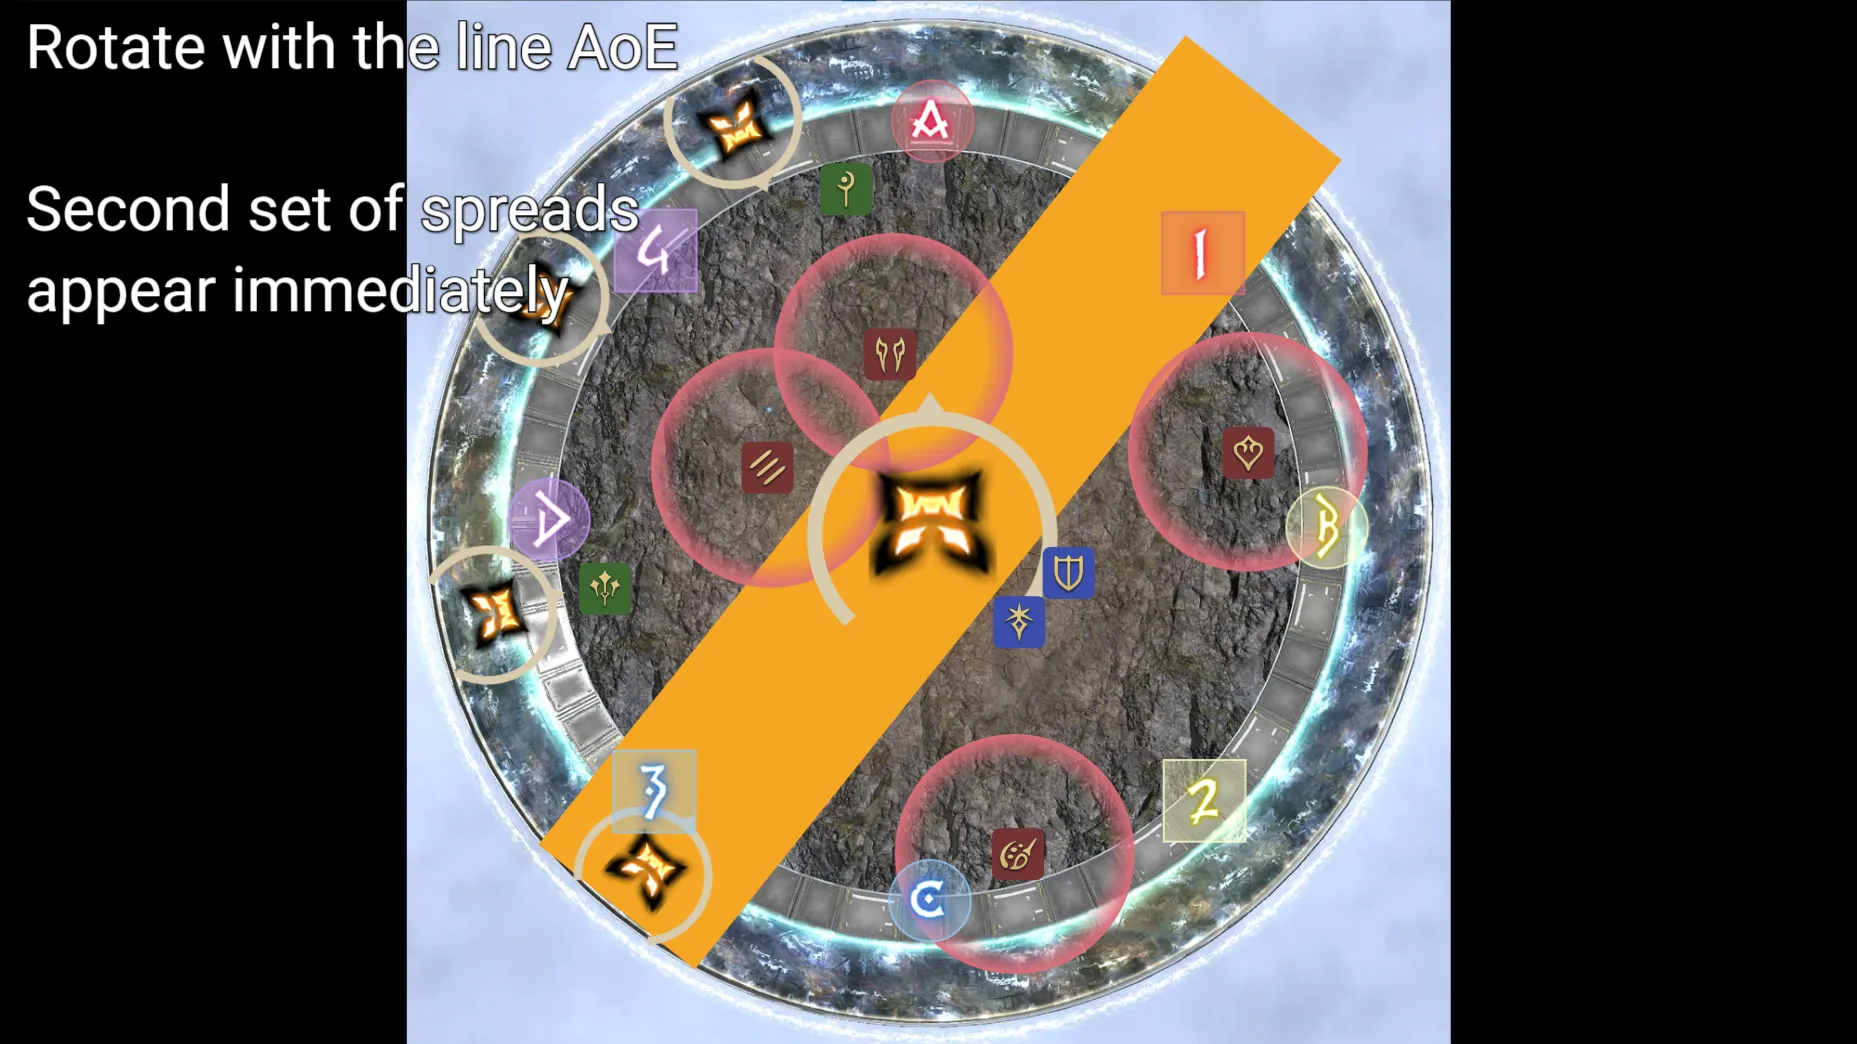
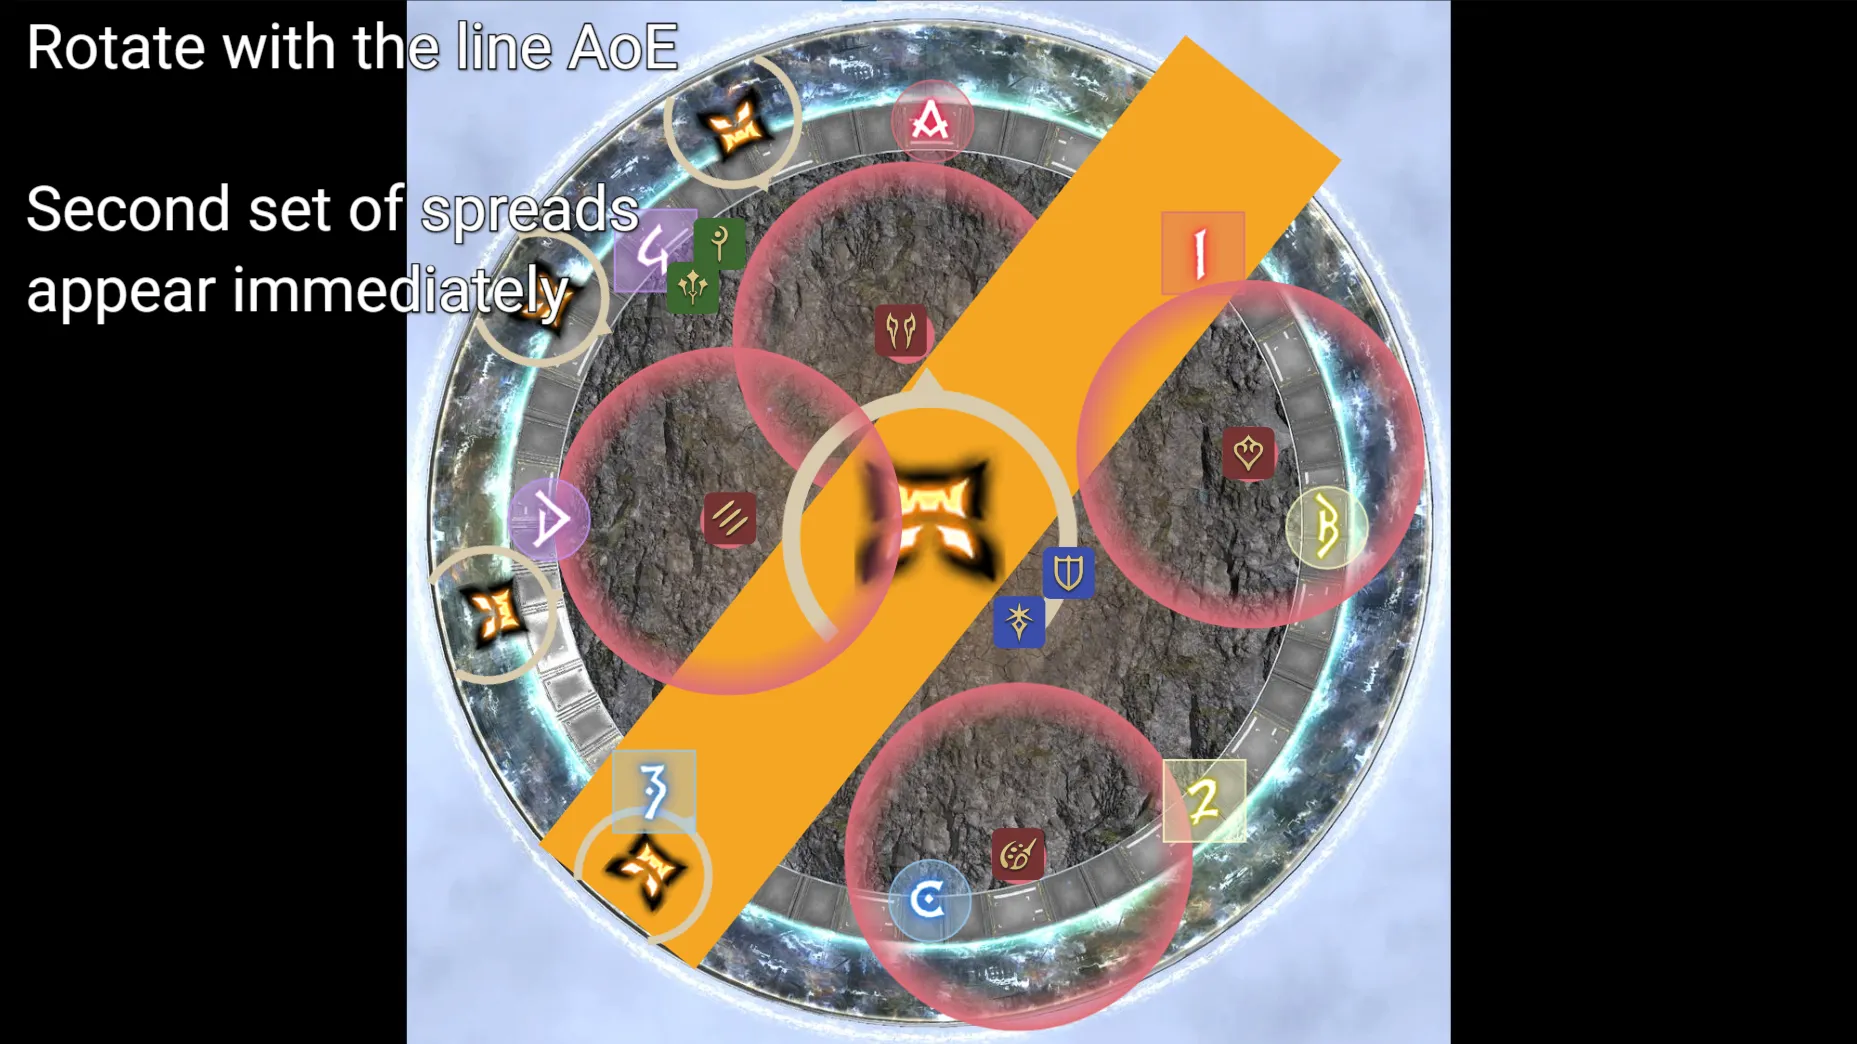
update fering decay

Changed region(s): [[0.2811, 0.1533, 0.7808, 0.6743], [0.4373, 0.6437, 0.6559, 1.0]]

diff --git a/wtfdig/src/routes/72/m8s/+page.ts b/wtfdig/src/routes/72/m8s/+page.ts
@@ -452,7 +452,7 @@ const timeline: TimelineItem[] = [
 
 const feringDecay: StratRecord = {
     'start': {
-        'description': 'Healers/Melee West, Tanks/Ranged East\nG1 N, G2 S\nStay in start positions and rotate with heads',
+        'description': 'H/M West, T/R East, G1 N, G2 S\nRotate with line AOEs',
         'MT': {
                 role: 'Tank',
                 party: 1,
@@ -468,13 +468,13 @@ const feringDecay: StratRecord = {
         'H1': {
                 role: 'Healer',
                 party: 1,
-                description: '',
+                description: 'Ranged without AOEs can stay between melee AOEs to give more space',
                 imageUrl: './m8s/p1/fer-decay-start.webp',
         },
         'H2': {
                 role: 'Healer',
                 party: 2,
-                description: '',
+                description: 'Ranged without AOEs can stay between melee AOEs to give more space',
                 imageUrl: './m8s/p1/fer-decay-start.webp',
         },
         'M1': {
@@ -492,18 +492,18 @@ const feringDecay: StratRecord = {
         'R1': {
                 role: 'Ranged',
                 party: 1,
-                description: '',
+                description: 'Ranged without AOEs can stay between melee AOEs to give more space',
                 imageUrl: './m8s/p1/fer-decay-start.webp',
         },
         'R2': {
                 role: 'Ranged',
                 party: 2,
-                description: '',
+                description: 'Ranged without AOEs can stay between melee AOEs to give more space',
                 imageUrl: './m8s/p1/fer-decay-start.webp',
         },
     },
     'spreads': {
-        'description': 'Stay in static positions while rotating\nMelee Close, Ranged Far',
+        'description': 'Second spreads resolve with third line AOE\nMelee Close, Ranged Far',
         'MT': {
                 role: 'Tank',
                 party: 1,
@@ -519,13 +519,13 @@ const feringDecay: StratRecord = {
         'H1': {
                 role: 'Healer',
                 party: 1,
-                description: '',
+                description: 'Ranged without AOEs can stay between melee AOEs to give more space',
                 imageUrl: './m8s/p1/fer-decay-spreads.webp',
         },
         'H2': {
                 role: 'Healer',
                 party: 2,
-                description: '',
+                description: 'Ranged without AOEs can stay between melee AOEs to give more space',
                 imageUrl: './m8s/p1/fer-decay-spreads.webp',
         },
         'M1': {
@@ -543,13 +543,13 @@ const feringDecay: StratRecord = {
         'R1': {
                 role: 'Ranged',
                 party: 1,
-                description: '',
+                description: 'Ranged without AOEs can stay between melee AOEs to give more space',
                 imageUrl: './m8s/p1/fer-decay-spreads.webp',
         },
         'R2': {
                 role: 'Ranged',
                 party: 2,
-                description: '',
+                description: 'Ranged without AOEs can stay between melee AOEs to give more space',
                 imageUrl: './m8s/p1/fer-decay-spreads.webp',
         },
     },

diff --git a/wtfdig/src/routes/+layout.svelte b/wtfdig/src/routes/+layout.svelte
@@ -33,6 +33,7 @@
         </header>
         <article>
             <div>
+                <p>5/1/2025: updated fering decay diagrams</p>
                 <p>4/27/2025: highlights for m5s hector, split m7s p3 hector strat out into its own thing</p>
                 <p>4/27/2025: add timeline for m8s, add cheatsheet for ex4</p>
                 <p>4/26/2025: fix m7s stoneringers 2, add image previews in cheatsheet mode</p>
